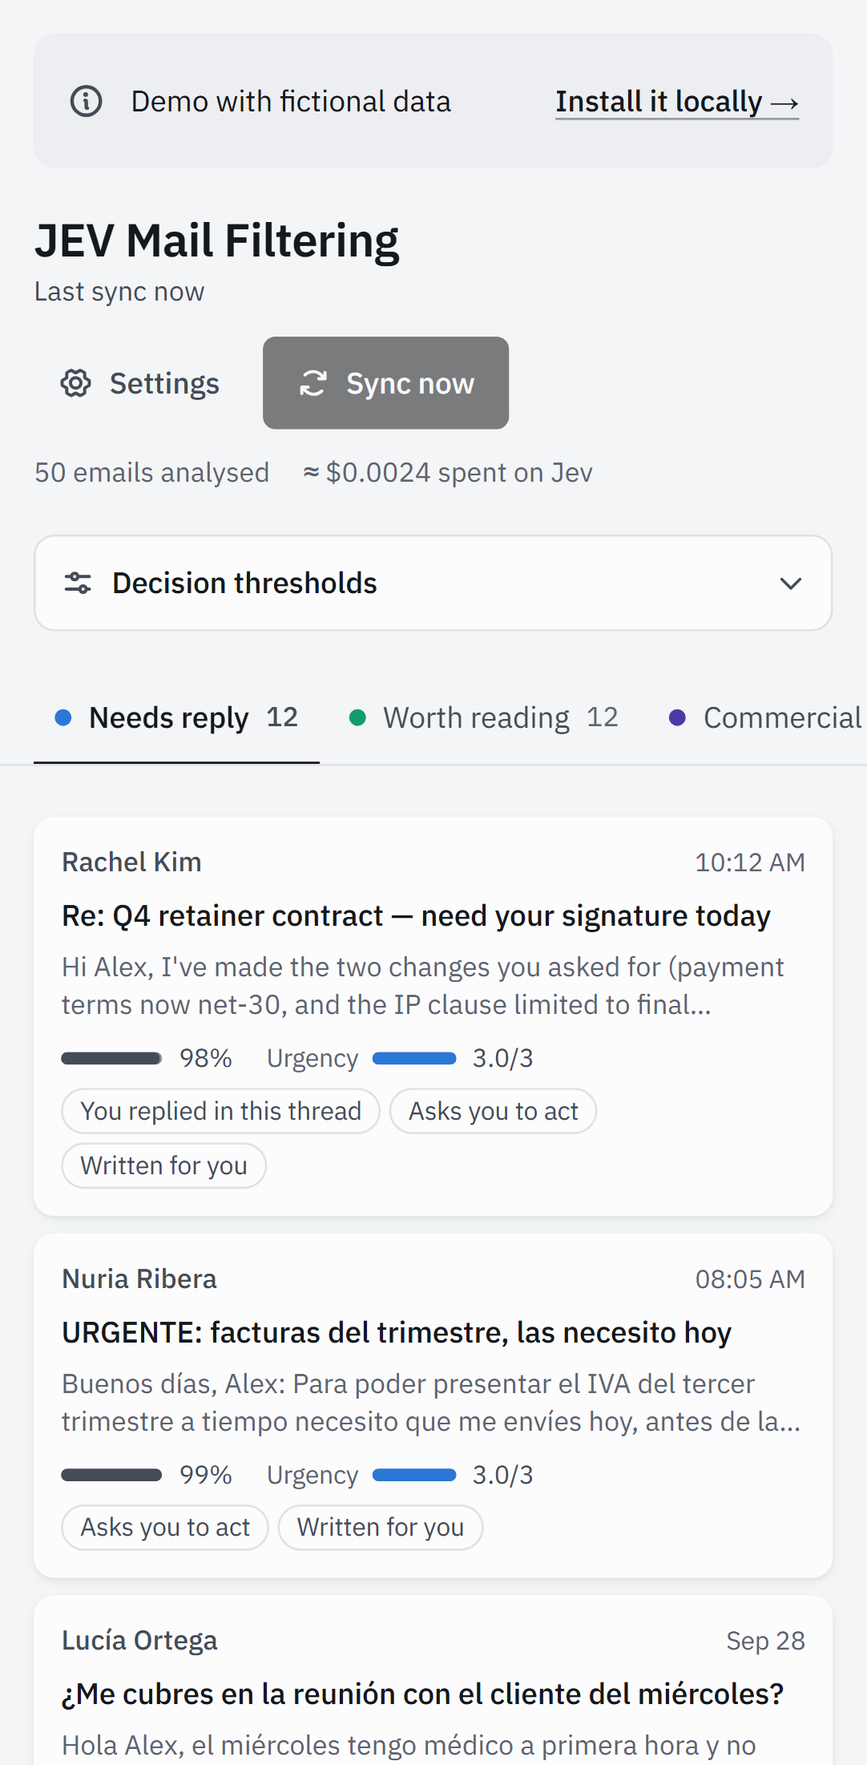
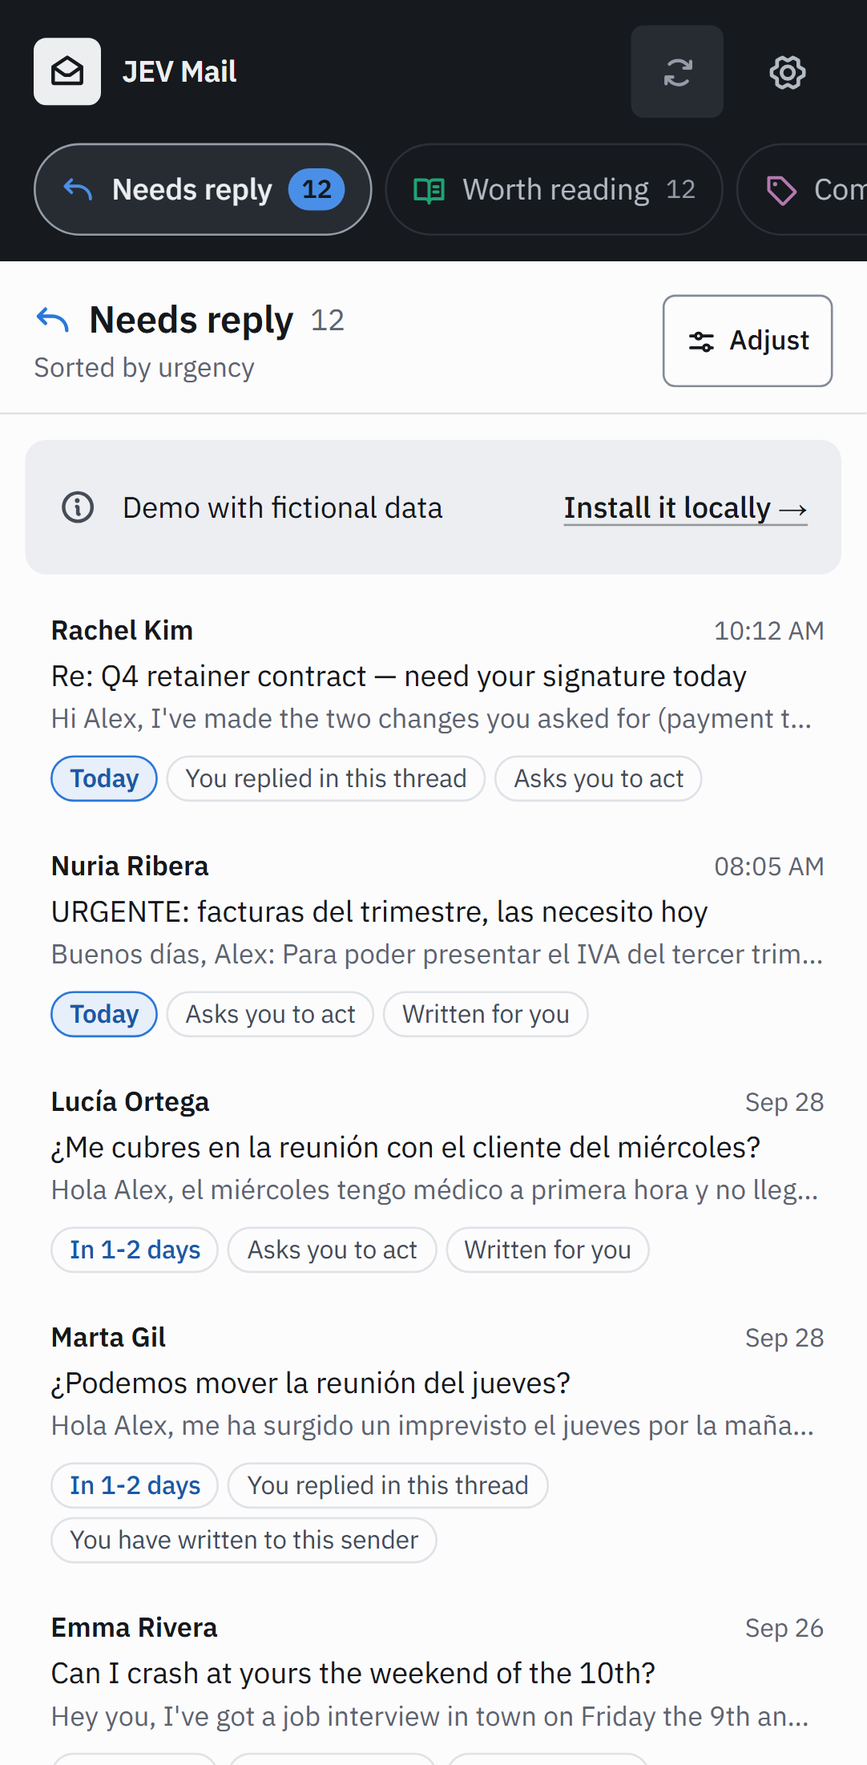
docs: document the mail-client layout and refresh screenshots
Updates the design direction (layout, keyboard/ARIA, responsive, sidebar
tokens and measured contrast), the README wording and regenerates the
dashboard, mobile, scam-detail screenshots and demo.gif from the demo build.

diff --git a/docs/design/dashboard-direction.md b/docs/design/dashboard-direction.md
@@ -1,6 +1,6 @@
 # Dirección de diseño: dashboard
 
-Decisiones concretas para el dashboard, el asistente y la demo de JEV Mail Filtering. Los tokens viven en `src/app/globals.css`; las primitivas en `src/app/components/ui/`. Este documento es la fuente de verdad visual para las Tasks 13 a 16.
+Decisiones concretas para el dashboard, el asistente y la demo de JEV Mail Filtering. Los tokens viven en `src/app/globals.css`; las primitivas en `src/app/components/ui/`. Este documento es la fuente de verdad visual del producto. Desde el rediseño aprobado (dirección B, «cliente de correo») el dashboard ya no es un tablero de columnas: ver [Disposición: cliente de correo](#disposición-cliente-de-correo).
 
 ## Lectura del encargo
 
@@ -10,9 +10,38 @@ Diales (design-taste-frontend / ui-ux-pro-max): varianza 4, movimiento 3, densid
 
 ## Principio rector
 
-**Los neutros llevan la interfaz; el color se reserva para el significado.** Solo hay color en las cinco categorías y en los estados (error, aviso, éxito). La acción principal es tinta (casi negro en claro, casi blanco en oscuro), no un color de marca. Así la vista de columnas se lee como un mapa de calor de atención: lo que tiene color es lo que importa.
+**Los neutros llevan la interfaz; el color se reserva para el significado.** Solo hay color en las cinco categorías y en los estados (error, aviso, éxito). La acción principal es tinta (casi negro en claro, casi blanco en oscuro), no un color de marca. Así la bandeja se lee como un mapa de calor de atención: lo que tiene color es lo que importa. La única gran masa oscura es el marco (la barra lateral), que es neutra.
 
 Descartado a propósito: gradientes morados, glassmorphism, tarjetas idénticas sin jerarquía, bordes laterales de color gruesos en tarjetas, rojo saturado a pantalla completa, Inter por defecto, emoji como iconos.
+
+## Disposición: cliente de correo
+
+Aprobada por el usuario sobre la maqueta `layout-b-detail` (dirección B). Tres zonas, como un cliente de correo de escritorio, porque la tarea es la de uno: elegir una bandeja, recorrer correos y leer uno con su explicación al lado.
+
+| Zona | Contenido | Decisiones |
+|---|---|---|
+| **Barra lateral** (oscura en claro y en oscuro) | logo «JEV Mail», **Sync now**, las seis categorías con contador, aviso de demo, estado (última sync, analizados, coste, conexión) y **Settings** | Es el marco, no contenido: un bloque de tinta en modo claro (`--sidebar` `#16191d`) y un escalón por debajo del lienzo en oscuro (`#0b0d10`). Cada categoría tiene **icono propio** (Phosphor, `bold`; escudo relleno para Possible scam) en su color de marca de barra lateral, así la identidad no depende del color ni en el carril de iconos. Solo *Needs reply* lleva el contador en píldora (lo único que pide acción); *Possible scam* lleva su contador en tinta cálida. *Unsure* y *Others* van tras un separador: son bandejas de revisión, no de acción. La categoría activa: fondo `--sidebar-raised` + peso medio + `aria-current`. |
+| **Lista** | cabecera (icono, nombre, contador, orden: «Sorted by urgency» en Needs reply, «Newest first» en el resto) + **Adjust**; filas | Fila = remitente (semibold) + hora, asunto, extracto de una línea, chips: urgencia (solo Needs reply), marca «Moved by you» y hasta 2 razones. Filas redondeadas separadas por aire, sin reglas entre filas. Seleccionada: tinte de su categoría + **barra de acento interior de 3px redondeada** (no un borde lateral: el suelo de oficio veta bordes laterales de color de más de 1px). Aviso «Guidance only» encima de la lista de Possible scam. Estado vacío propio por categoría. |
+| **Panel de lectura** | chip de categoría con confianza, urgencia, asunto, remitente + dirección + fecha, acciones, extracto en texto plano, **Why** | Por qué: razones, barras de probabilidad, señales verificadas, juicios de Jev y modelo. Acciones: «Open in Gmail» (solo Gmail real, nunca demo), «Not this? Move to…» (divulgación que muestra los destinos; deshabilitados en demo con el texto «Disabled in the demo»), «Undo my change» si hay override. Nota de aviso en tinte de Possible scam para esa categoría. Vacío: «Select an email» + pista de teclado. |
+
+### Umbrales: botón «Adjust»
+
+Popover no modal (`role="dialog"` etiquetado por «Decision thresholds») anclado a la cabecera de la lista. Reutiliza la lógica de `ThresholdPanel` a través del hook `useThresholdDraft` (borrador local + aviso al padre con 150 ms de debounce + Save explícito) y los campos compartidos `ThresholdFields`; Settings sigue usando el panel plegable. Al abrir, el foco va al primer deslizador; Esc lo cierra y devuelve el foco al botón; un clic fuera o tabular fuera lo cierra. Sigue montado cuando está cerrado (oculto con `hidden`) para no perder un cambio pendiente del debounce. Save solo fuera de la demo. La tecla `A` lo abre y cierra desde cualquier sitio salvo campos de texto o con un modal abierto; el botón lo anuncia con `aria-keyshortcuts="A"` y un `kbd` visible (oculto en táctil).
+
+### Teclado y ARIA
+
+- **Lista**: patrón `listbox` de selección única con **selección que sigue al foco** y **tabindex itinerante** (la fila seleccionada es la única con `tabIndex=0`, así Tab entra en ella). ↑/↓ mueven, Inicio/Fin saltan a los extremos (reductor puro `nextIndex` en `inbox.ts`, con tests). Enter o Espacio activan: en móvil abren la hoja; en escritorio mueven el foco al panel de lectura. Cada `option` se nombra con remitente, asunto y fecha (`aria-labelledby`) y se describe con sus chips (`aria-describedby`); `aria-selected` anuncia la selección.
+- **Panel de lectura**: `section` con `tabIndex=-1` nombrada por el asunto (región). Esc dentro devuelve el foco a la fila seleccionada.
+- **Categorías**: botones con `aria-current="true"` en la activa dentro de `nav` «Categories» (no son pestañas: cambian la vista de lista, no un panel adyacente). En el carril, el nombre sigue en texto `sr-only` y se muestra como tooltip al pasar el ratón y con foco de teclado.
+- Enlace «Skip to the messages» como primer elemento enfocable; `h1` con el nombre de la app en `sr-only`.
+- En escritorio el panel siempre muestra algo: la selección elegida o, si no hay, el primer correo de la lista (`resolveSelection`). Al mover un correo fuera de la lista, la selección pasa a su vecino (`neighborId`).
+
+### Responsive
+
+- **≥ 1280px**: barra lateral completa (16rem) + lista (22-27rem) + panel de lectura.
+- **768-1279px**: la barra se reduce a un **carril de iconos** con contador bajo cada icono y tooltip; el estado (última sync, analizados, coste) pasa al pie de la lista, y el aviso de demo a la cabecera de la lista.
+- **< 768px**: barra superior oscura (logo, Sync, Settings) + fila desplazable de categorías con contador (objetivos de 44px); lista a ancho completo; tocar un correo abre el panel de lectura a pantalla completa con el primitivo `Sheet` (Esc o ✕ cierran y el foco vuelve a la fila).
+- Sin scroll horizontal de página a 375px (verificado).
 
 ## Paleta
 
@@ -20,8 +49,8 @@ Neutros pizarra fríos, sin `#fff` ni `#000` puros.
 
 | Token | Claro | Oscuro | Uso |
 |---|---|---|---|
-| `--canvas` | `#f4f5f6` | `#0f1114` | fondo de página y de columnas |
-| `--surface` | `#fcfcfd` | `#171a1e` | tarjetas, panel lateral, inputs |
+| `--canvas` | `#f4f5f6` | `#0f1114` | fondo de página, bloque del extracto |
+| `--surface` | `#fcfcfd` | `#171a1e` | lista, panel de lectura, popover, inputs |
 | `--sunken` | `#eceef1` | `#1f2328` | hover, esqueletos, tintes neutros. **Nunca bajo marcas de categoría ni como pista de meter** |
 | `--ink` | `#15181c` | `#eceef0` | texto principal, botón primario |
 | `--ink-2` | `#454c57` | `#b3bac4` | texto secundario, remitente, valores |
@@ -44,7 +73,7 @@ Cada categoría tiene tres tokens: **marca** (`--cat-x`, puntos, relleno de mete
 | Commercial | `#4a3aa7` | `#805d9a` | `#4a3aa7` / `#c6b2e6` | `#eeebf8` / `#251d33` | ciruela apagado: recede, es la columna más poblada |
 | Possible scam | `#dc5a26` | `#d95926` | `#a33d12` / `#f5a47f` | `#fcebe3` / `#351f17` | naranja óxido: el tono más cálido y con más croma destaca sin ser el rojo de "error" |
 | Unsure | `#7c8490` | `#7f8793` | `#454c57` / `#b3bac4` | `#eceef1` / `#1f2328` | gris neutro: "Jev no decidió" no merece un tono propio |
-| Others (`none`) | igual que Unsure | | | | oculta por defecto; se distingue por su etiqueta |
+| Others (`none`) | igual que Unsure | | | | entrada propia en la barra lateral, tras Unsure; se distingue por su etiqueta e icono (bandeja) |
 
 La paleta categórica (las cuatro con tono) se validó con el validador de la skill `dataviz` en modo **all-pairs** (cualquier par puede quedar contiguo porque las barras de probabilidad se ordenan por valor), contra la superficie real de cada modo:
 
@@ -65,12 +94,11 @@ Aun así, **el color nunca va solo**: toda categoría aparece con su nombre escr
 
 ### Tratamiento por categoría
 
-- **Needs reply**: primera columna, la única con urgencia (meter de urgencia en la tarjeta). Contador con peso semibold.
-- **Worth reading**: segunda columna, tarjetas normales.
-- **Commercial**: tarjetas más compactas (sin extracto en densidad alta); el ciruela apagado la hace retroceder.
-- **Possible scam**: sin alarmismo. Punto naranja + icono de escudo en la cabecera, badge con escudo y chips de evidencia en tono `risk` (tinta naranja sobre tinte). Nada de fondos rojos a pantalla completa ni parpadeos; la tarjeta es igual que las demás salvo la evidencia. Destaca porque es el único tono cálido **entre las categorías** y el de más croma. Los tonos de estado `--danger` y `--warning` también son cálidos, pero se reservan para banners y errores de formulario, nunca aparecen en tarjetas ni columnas, y siempre van con icono + texto.
-- **Unsure**: gris; la tarjeta explica por qué (confianza por debajo del umbral) con el meter visible.
-- **Others**: oculta; `ToggleChip` "Show others (n)" con `aria-pressed`.
+- **Needs reply**: categoría inicial, la única con urgencia. En la fila, chip de urgencia con los cuatro criterios con los que se pregunta a Jev (`urgencyLevel`: Today / In 1-2 days / This week / No rush); «Today» en tinte azul con borde de marca, «In 1-2 days» con tinta azul. Contador en píldora en la barra lateral.
+- **Worth reading**, **Commercial**: filas normales; el ciruela apagado hace retroceder a Commercial.
+- **Possible scam**: sin alarmismo. Icono de escudo relleno, badge con escudo y chips de evidencia en tono `risk` (tinta naranja sobre tinte). Nada de fondos rojos a pantalla completa ni parpadeos. Destaca porque es el único tono cálido **entre las categorías** y el de más croma. Los tonos de estado `--danger` y `--warning` se reservan para banners y errores, nunca aparecen en filas, y siempre van con icono + texto.
+- **Unsure**: gris; la fila explica por qué (chip «Minimum confidence n%»).
+- **Others**: entrada propia de la barra lateral (antes estaba oculta tras un `ToggleChip`).
 
 ## Tipografía
 
@@ -103,7 +131,7 @@ Números en filas y meters con `tabular-nums` (clase `.tabular`, y `time`/`data`
 
 ## Indicadores de datos (dataviz)
 
-- **Confianza en la tarjeta**: `Meter` pequeño (6px × 48px) en tinta neutra + porcentaje escrito. Es un escalar acotado, no un gráfico; no lleva color de categoría (la tarjeta ya está en su columna).
+- **Confianza**: porcentaje escrito dentro del badge de categoría del panel de lectura («Needs reply 98%»); la lista no repite medidores, la fila ya está en su categoría.
 - **Distribución de probabilidades (panel)**: barras horizontales ordenadas de mayor a menor, etiqueta directa a la izquierda y valor a la derecha, sin leyenda aparte. Es **una sola serie** sobre categorías nominales, así que todas las barras van en tinta neutra y **solo la categoría elegida** se pinta con su color de marca y su etiqueta en semibold. Barras de 8px, esquina 4px.
 - **Umbrales**: la barra de Possible scam puede mostrar una marca vertical en el umbral `scam` actual para que el recálculo al mover el slider sea visible.
 - Todo meter tiene `role="meter"` con `aria-valuetext` legible; el número siempre aparece en texto porque una barra fina sola no se lee.
@@ -112,37 +140,55 @@ Números en filas y meters con `tabular-nums` (clase `.tabular`, y `time`/`data`
 
 ## Jerarquía, estados y microinteracciones (impeccable)
 
-Jerarquía de la cabecera: título de la bandeja + último sync a la izquierda; `Sync now` (primario, el único botón oscuro de la vista) a la derecha; analizados, coste y estado de conexión como metadatos en `ink-3`. Las columnas no son tarjetas: son zonas del canvas con cabecera (punto de color, nombre, contador tabular) y una regla de 1px.
+Jerarquía: la barra lateral oscura es el marco (Sync now es el único botón claro sobre ella); la cabecera de la lista nombra la bandeja y su orden; el asunto del panel de lectura es el titular más grande de la vista (22px). Analizados, coste y conexión son metadatos en `sidebar-ink-3` (o `ink-3` en el pie de la lista por debajo de 1280px).
 
 Estados:
 
 | Estado | Tratamiento |
 |---|---|
-| Cargando | esqueletos con la forma de la tarjeta (bloques `--sunken`), sin spinners en el contenido |
-| Sincronizando | `Sync now` en modo `loading` (spinner + "Syncing…", `aria-busy`), contador "n pending" con `role="status"`; las tarjetas nuevas entran sin reordenar las existentes |
+| Cargando | esqueletos con la forma de la fila y del panel (bloques `--sunken`), sin spinners en el contenido |
+| Sincronizando | `Sync now` en modo `loading` (spinner + "Syncing…", `aria-busy`), contador "n pending" con `role="status"`; las filas nuevas aparecen en su categoría y la selección se conserva |
 | Vacío (sin datos) | explica qué pasará y ofrece la acción: conectar bandeja o probar la demo |
-| Columna vacía | "Nothing here" en `ink-3` dentro de la columna, sin ilustración |
-| Error IMAP | `Banner` warning `live="polite"`: se muestran resultados guardados |
+| Categoría vacía | frase propia por categoría («Nothing is waiting for your reply.») con icono de bandeja, centrada en la lista |
+| Nada seleccionado | panel de lectura con «Select an email» y la pista de teclado (↑ ↓, A) |
+| Error IMAP | `Banner` warning `live="polite"` en la cabecera de la lista: se muestran resultados guardados |
 | Error Jev | `Banner` danger `live="assertive"` con acción "Fix it" |
-| Demo | `Banner` info estático con "Install it locally →"; controles deshabilitados muestran "Disabled in the demo" |
+| Demo | aviso compacto en la barra lateral (≥ 1280px) o `Banner` info en la cabecera de la lista, con "Install it locally →"; controles deshabilitados muestran "Disabled in the demo" |
 
 Microinteracciones (150-280ms, `--ease-out` exponencial, todas a 0ms con `prefers-reduced-motion`):
 
-- **Override** ("Not this? Move to…"): la tarjeta sale de su columna y aparece en la de destino con un desplazamiento corto + fundido (`--duration-move`, 280ms); se añade el chip "Moved by you" y un "Undo my change". Un solo momento de movimiento con sentido, no animaciones de entrada en toda la página.
-- **Sliders de umbrales**: recálculo en cada evento `input` (sin botón de aplicar); los contadores de columna cambian en el acto y las tarjetas que cambian de columna usan la misma transición que el override. El valor se muestra en `<output>` junto a la etiqueta.
+- **Override** ("Not this? Move to…"): el correo sale de la lista, la selección pasa a su vecino y, en su categoría de destino, la fila entra con un desplazamiento corto + fundido (`--duration-move`, 280ms); se añade el chip "Moved by you" y un "Undo my change". Un solo momento de movimiento con sentido, no animaciones de entrada en toda la página.
+- **Sliders de umbrales** (popover Adjust): recálculo con cada `input` (debounce 150 ms, sin botón de aplicar); los contadores de la barra lateral cambian en el acto y las filas que cambian de categoría usan la misma transición que el override. El valor se muestra en `<output>` junto a la etiqueta. El popover entra con escala 95% + fundido (`@starting-style`).
+- **Selección de fila**: tinte y barra de acento con transición de color corta; sin movimiento.
 - **Botones**: hover de color, `active:translate-y-px` como pulsación física.
-- **Panel lateral**: entra desde la derecha (`translate` + `@starting-style`), sale igual.
+- **Hoja de lectura en móvil** (`Sheet`): entra desde la derecha (`translate` + `@starting-style`), sale igual.
 
 ## Responsive
 
-- ≥ 1280px: cinco columnas visibles.
-- 768-1279px: columnas con scroll horizontal por snap, cabeceras fijas.
-- < 768px: **las columnas pasan a pestañas con contador** ("Needs reply 4"), una lista por pestaña; el panel lateral ocupa todo el ancho. Objetivos táctiles de 44px con `pointer-coarse:` en botones, chips interactivos, inputs y sliders.
-- Sin scroll horizontal de página en 375px.
+Ver [Disposición: cliente de correo](#disposición-cliente-de-correo). Objetivos táctiles de 44px con `pointer-coarse:` en botones, entradas de categoría, inputs y sliders.
 
 ## Modo oscuro
 
 Una sola fuente por token: cada color se declara una vez como `light-dark(<claro>, <oscuro>)` en `:root`, con `color-scheme: light dark`, así que sigue a `prefers-color-scheme` sin bloques duplicados. Un futuro selector manual solo cambia el esquema: `:root[data-theme="light"]` / `[data-theme="dark"]` fijan `color-scheme` y no redefinen ningún valor. Cada valor oscuro está elegido y medido contra su propia superficie, no invertido. Las sombras usan `--shadow-color` con `color-mix()`. Tailwind 4 (Lightning CSS) compila `light-dark()` a un polyfill con `--lightningcss-light/dark` que respeta tanto la media query como `data-theme` (comprobado en el CSS generado y en el navegador).
+
+### Barra lateral: tokens y contraste medido
+
+Valores fijos (no se invierten): la barra es oscura en los dos esquemas. Medidos con `contrast()` de `scripts/validate_palette.js` (dataviz) contra `--sidebar`, `--sidebar-hover` y `--sidebar-raised` en ambos esquemas (60 pares, 0 fallos). Márgenes más justos, sobre `--sidebar-raised` en claro (`#272c33`): `--sidebar-ink-3` 5.07:1, marca de Possible scam 4.06:1, Commercial 4.23:1.
+
+| Token | Valor (claro / oscuro) | Uso | Peor contraste |
+|---|---|---|---|
+| `--sidebar` | `#16191d` / `#0b0d10` | fondo | |
+| `--sidebar-hover` · `--sidebar-raised` | `#20242a` · `#272c33` / `#15181c` · `#1c2026` | hover · categoría activa | |
+| `--sidebar-ink` / `-2` / `-3` | `#eceef0` / `#b3bac4` / `#949ca8` | texto | 12.08 / 7.19 / 5.07 :1 |
+| `--sidebar-accent` + `--sidebar-on-accent` | `#eceef0` + `#15181c` | botón Sync now | 15.31:1 |
+| `--sidebar-focus` | `#6aa3f0` | anillo de foco dentro de `.sidebar-scope` | 5.43:1 |
+| `--sidebar-cat-*` | `#4a8fe7` · `#1fa374` · `#b37ab0` · `#e0652f` · `#949ca8` | iconos de categoría | 4.06:1 (mín. 3) |
+| `--sidebar-cat-possible-scam-ink` | `#f5a47f` | contador de Possible scam | 7.03:1 |
+| píldora Needs reply | texto `--sidebar` sobre `#4a8fe7` | contador | 5.35:1 |
+
+La paleta categórica de la barra se validó aparte (dataviz, `--pairs all`, superficie `#16191d`): banda de luminosidad y croma PASS, suelo de visión normal ΔE 15.4 PASS, CVD peor par Commercial↔Worth reading ΔE 7.9 (deutan), en la franja 6-8 que solo es legal con codificación secundaria: aquí cada categoría lleva **icono distinto y nombre escrito**. La primera propuesta (`#4f94ec`, `#2bb07f`, `#a283c6`, `#ee7443`) fallaba la banda de luminosidad y dejaba Commercial a ΔE 11.3 de Needs reply; se movió Commercial hacia un ciruela rosado y se oscurecieron verde y naranja.
+
+El anillo de foco de modo claro (`#1d63c9`) no llega a 3:1 sobre la barra oscura, por eso `.sidebar-scope` redefine `--focus` con `--sidebar-focus`.
 
 ## Superficies del navegador
 
@@ -164,11 +210,11 @@ Una sola fuente por token: cada color se declara una vez como `light-dark(<claro
 
 ## Criterios de éxito (spec §6.4)
 
-- [x] Se entiende en 5 s qué requiere atención: color solo en categorías, Needs reply primera con urgencia, contadores tabulares en las cabeceras.
+- [x] Se entiende en 5 s qué requiere atención: color solo en categorías, Needs reply abierta por defecto y ordenada por urgencia, contador en píldora en la barra lateral.
 - [x] *Possible scam* destaca sin alarmismo: único tono cálido entre las categorías (danger/warning quedan fuera de las tarjetas), escudo + evidencia, sin rojo a pantalla completa.
 - [x] Modo claro/oscuro: ambos seleccionados y medidos (tabla abajo).
-- [x] Responsive: columnas → pestañas con contador en móvil.
-- [ ] WCAG 2.1 AA: contraste medido aquí; la auditoría completa (`design:accessibility-review`) es la Task 16.
+- [x] Responsive: barra lateral → carril de iconos (768-1279px) → barra superior con selector de categorías y hoja de lectura a pantalla completa (< 768px).
+- [x] WCAG 2.1 AA: axe sin infracciones en claro y oscuro (dashboard, panel de lectura con estafa, popover Adjust, Settings, asistente), también a 800 y 1024px.
 
 ## Contraste medido
 

diff --git a/README.md b/README.md
@@ -10,7 +10,7 @@ You can try it without an API key or a mailbox: demo mode uses 50 fictional emai
 
 ## What it does
 
-| Column | What lands there |
+| Category | What lands there |
 |---|---|
 | **Needs reply** | A person is waiting for your answer, decision or action. Sorted by urgency. |
 | **Worth reading** | Useful, but no reply needed: newsletters you signed up for, receipts, account notices. |
@@ -23,7 +23,7 @@ Automated noise (bounces, social network digests) goes to an **Others** filter, 
 - **Read-only.** The mailbox is opened with `EXAMINE` and read with `BODY.PEEK`: nothing is moved, deleted, labelled or marked as read.
 - **Local.** The app runs on `127.0.0.1:3737`. Your settings, results and credentials stay on your computer.
 - **Explainable.** Every card shows why it is there ("Domain resembles paypal", "Sender authentication failed", "Asks for sensitive data"). The reasons are produced by code, never by a model.
-- **Tunable.** Move the threshold sliders and the columns update instantly, without calling Jev again.
+- **Tunable.** Open **Adjust**, move the threshold sliders and the list and its counters update instantly, without calling Jev again.
 
 | Light | Dark | Phone |
 |---|---|---|
@@ -98,7 +98,7 @@ Evaluated with `jev-1.13.0` on the 50 emails of the demo inbox (English and Span
 
 Read these numbers with care: the evaluation set is 50 fictional emails written by the author, each with a clear-cut label. Real inboxes are messier, so expect lower accuracy on yours. Full report in [docs/eval-results.md](docs/eval-results.md); reproduce it with `npm run eval`.
 
-> **Scam detection is advisory. Never trust it blindly.** An email outside the *Possible scam* column is not guaranteed to be safe.
+> **Scam detection is advisory. Never trust it blindly.** An email outside the *Possible scam* category is not guaranteed to be safe.
 
 ## How it works
 
@@ -109,7 +109,7 @@ IMAP (read-only) ──► signals (code) ──► Jev: 9 questions ──► p
                      mismatched links
 ```
 
-Deterministic code checks what can be verified (authentication results, lookalike domains, links whose text and target disagree, risky attachments). Jev judges what needs language understanding (is someone asking you to act? is this pressure or impersonation?). A small, pure policy function combines both into the final column. Code stays in control of the flow; the model only answers bounded questions. Architecture, the nine questions and the decision rules: [docs/how-it-works.md](docs/how-it-works.md).
+Deterministic code checks what can be verified (authentication results, lookalike domains, links whose text and target disagree, risky attachments). Jev judges what needs language understanding (is someone asking you to act? is this pressure or impersonation?). A small, pure policy function combines both into the final category. Code stays in control of the flow; the model only answers bounded questions. Architecture, the nine questions and the decision rules: [docs/how-it-works.md](docs/how-it-works.md).
 
 ## Requirements
 
